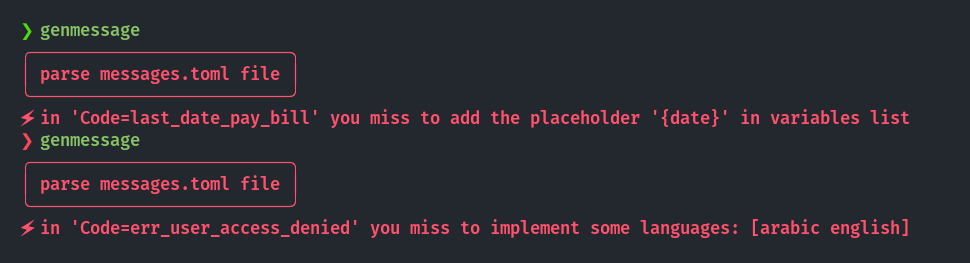
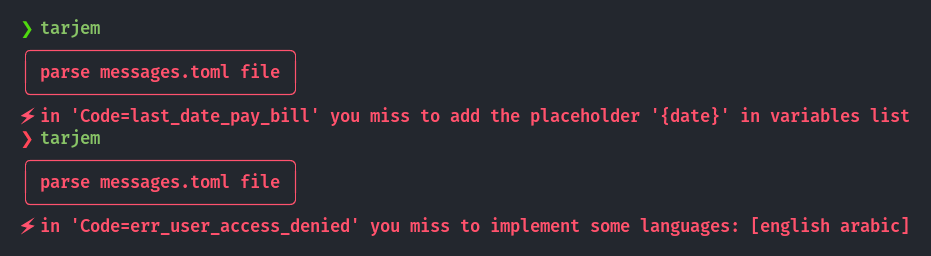
rename `genmessage` to `tarjem`

diff --git a/main.go b/main.go
@@ -56,7 +56,7 @@ func init() {
 	if len(os.Args) > 2 {
 		cute.SetTitleColor(cute.ColorBrightYellow)
 		cute.SetMessageColor(cute.ColorBrightYellow)
-		cute.Printlines("oops!", "too many arguments!", "try: genmessage help")
+		cute.Printlines("oops!", "too many arguments!", "try: tarjem help")
 		os.Exit(1)
 	}
 
@@ -70,9 +70,9 @@ func init() {
 				"oops!",
 				`"messages.toml" file not found!`,
 				"_______________________________",
-				"try: genmessage init",
-				"help: genmessage help",
-				"visit: https://github.com/zakaria-chahboun/genmessage",
+				"try: tarjem init",
+				"help: tarjem help",
+				"visit: https://github.com/zakaria-chahboun/tarjem",
 			)
 			os.Exit(1)
 		}
@@ -152,7 +152,7 @@ func init() {
 	// no arg match?
 	cute.SetTitleColor(cute.ColorBrightYellow)
 	cute.SetMessageColor(cute.ColorBrightYellow)
-	cute.Println("oops!", "try to get help: genmessage help")
+	cute.Println("oops!", "try to get help: tarjem help")
 	os.Exit(1)
 
 }

diff --git a/readme.md b/readme.md
@@ -1,6 +1,8 @@
 <img src="https://raw.githubusercontent.com/zakaria-chahboun/ZakiQtProjects/master/IMAGE1.png">
 
-Genmessage is a generator to easy translate your Go application ❤.
+Tarjem is a generator to easy translate your Go application ❤.
+
+*tarjem ترجم is an arabic word means 'translate'*
 
 - You only have to fill the `messages.toml` file.
 - You can use variables as placeholers in your translation templates.
@@ -10,7 +12,7 @@ Genmessage is a generator to easy translate your Go application ❤.
 
 ## Installation
 ```bash
-go install github.com/zakaria-chahboun/genmessage@latest
+go install github.com/zakaria-chahboun/tarjem@latest
 ```
 ## Usage
 You have to create a `messages.toml` file, example:
@@ -44,7 +46,7 @@ english = "Stock limit exceeded! Only {quantity} left in stock {name}."
 arabic = "تم تجاوز حد المخزون! لم يتبقى سوى {quantity} من مخزون {name}."
 ````
 
-or just create it by `genmessage init`.
+or just create it by `tarjem init`.
 
 <img src="./screenshot/01.png" alter="init" width=500>
 
@@ -55,7 +57,7 @@ As you see, we split messages in two parts:
 | Code = any name you want! | Code name starts with `err` or `error`.  |
 
 ## Generate go files
-run `genmessage` to export final go files.
+run `tarjem` to export final go files.
 
 <img src="./screenshot/02.png" alter="generate" width=500>
 
@@ -263,14 +265,14 @@ func login(name, pass string) error {
 ```
 
 ## Clear
-run `genmessage clear` if you want to remove the generated go files:
+run `tarjem clear` if you want to remove the generated go files:
 
 <img src="./screenshot/04.png" alter="clear" width=500>
 
 ## Other argments
 You will find all other argments in help:
 ```sh
-genmessage help
+tarjem help
 ```
 
 ## Contribute 🌻
